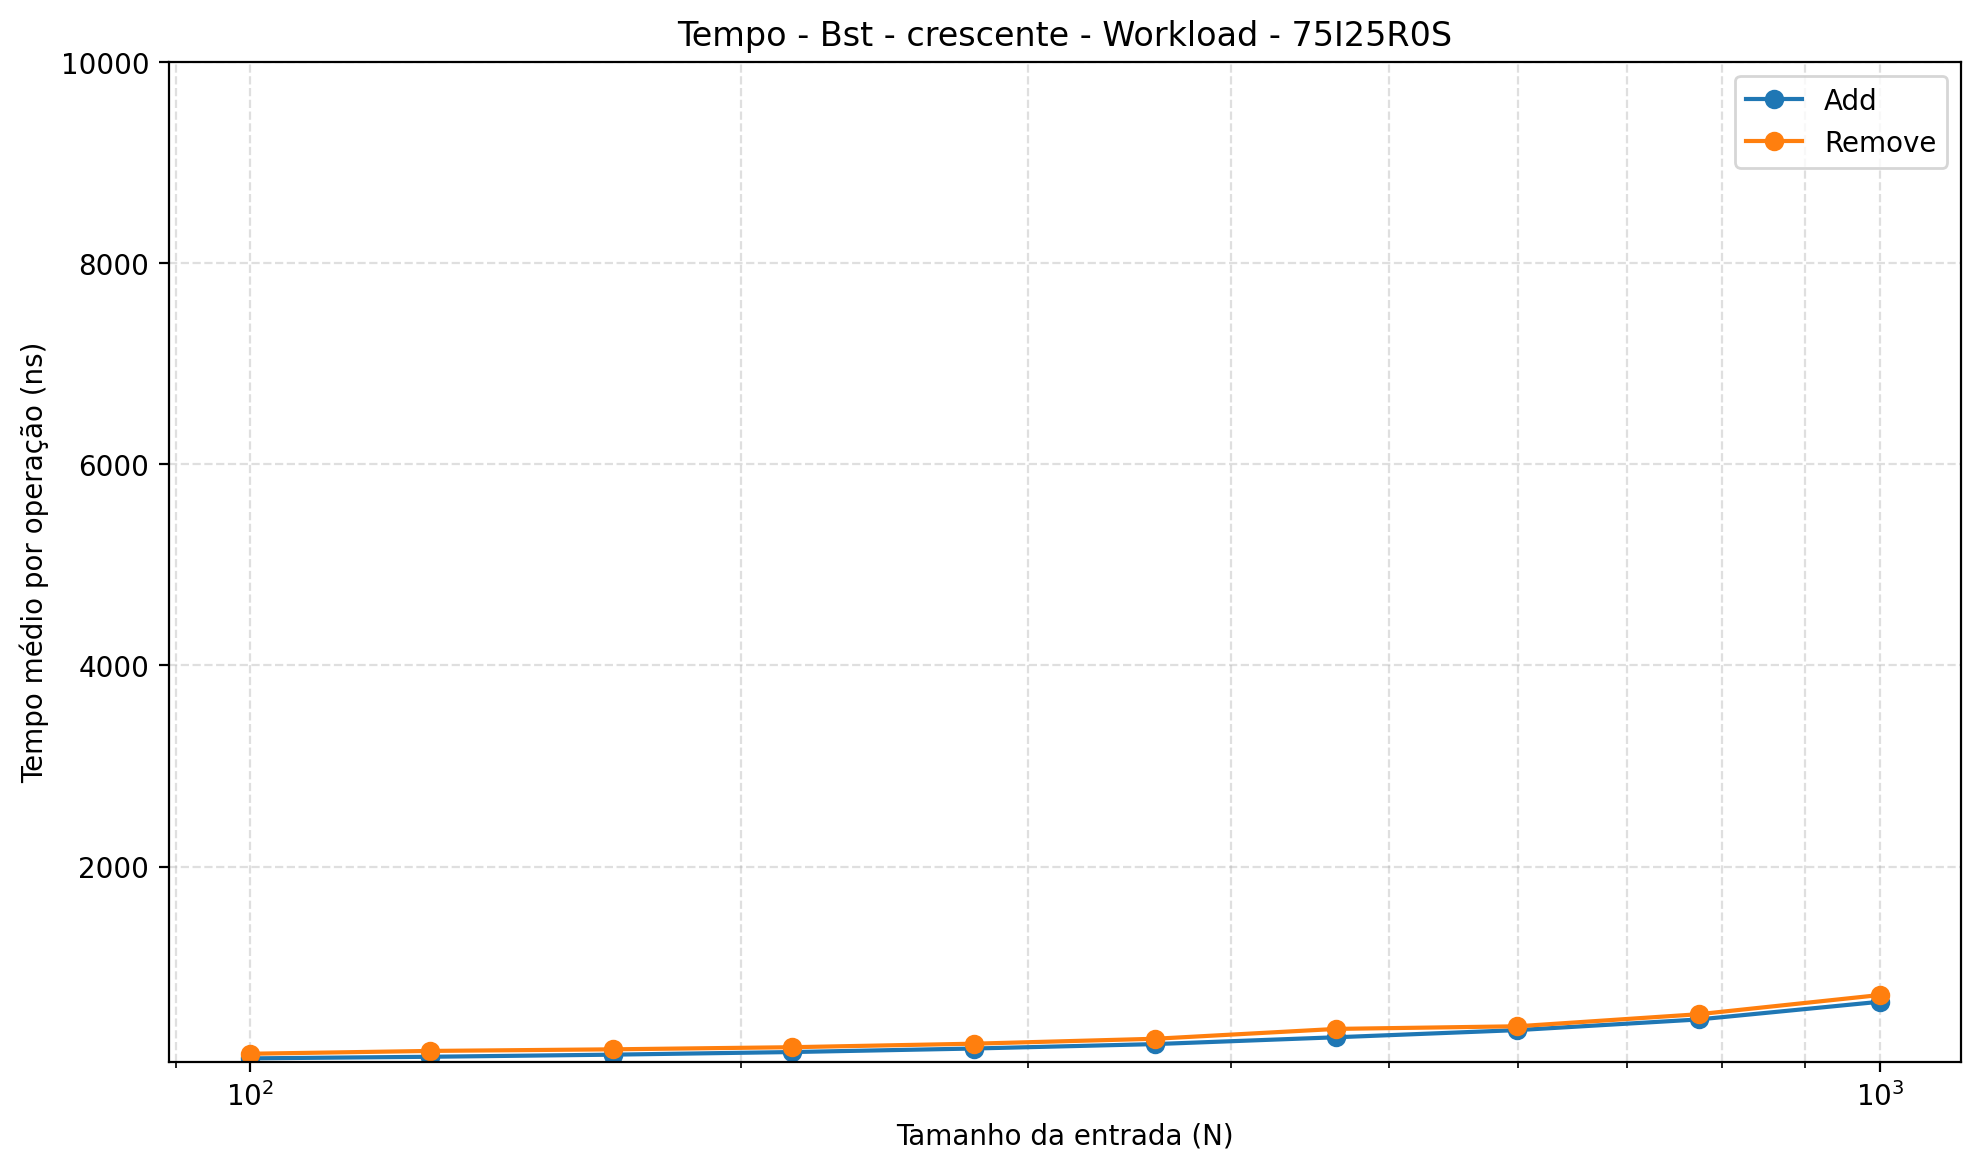
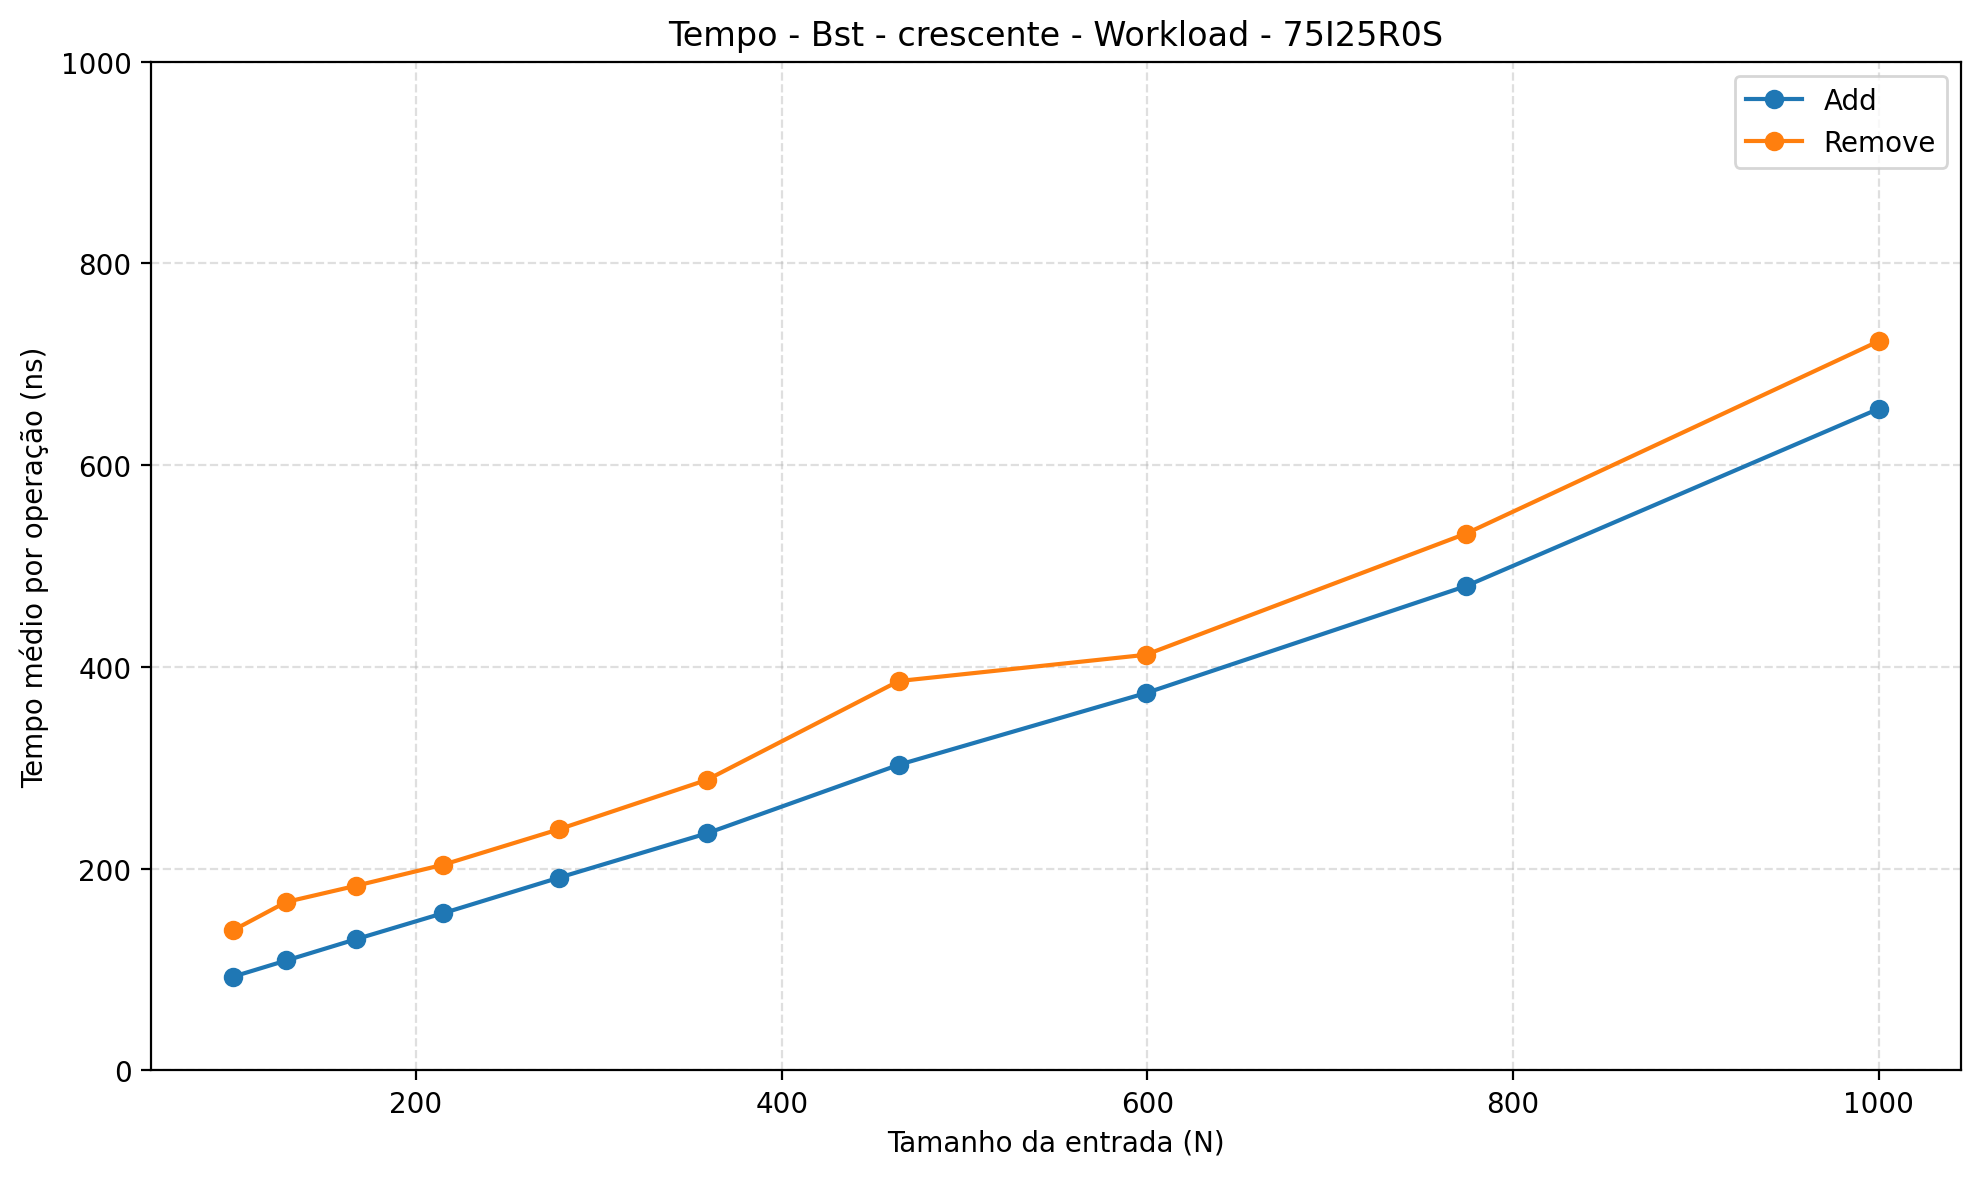
fix: plot fix

diff --git a/scripts/generatorGraph/plot_utils.py b/scripts/generatorGraph/plot_utils.py
@@ -81,17 +81,10 @@ def aplicar_limite_y_condicional(series_dict, limite_y=None, margem=0.10):
     if not valores:
         return
 
-    bottom = 30  # limite mínimo em nanossegundos
-
     ymax = max(valores)
 
-    if limite_y is not None:
-        plt.ylim(bottom, limite_y)
-    else:
-        topo = ymax * (1 + margem)
-        if topo <= bottom:
-            topo = bottom + 1
-        plt.ylim(bottom, topo)
+    if 0 < ymax <= 1000:
+        plt.ylim(0, 1000)
 
 
 def plot_series(series_dict, ylabel, title, output_path=None, limite_y=None, x_log=False):
